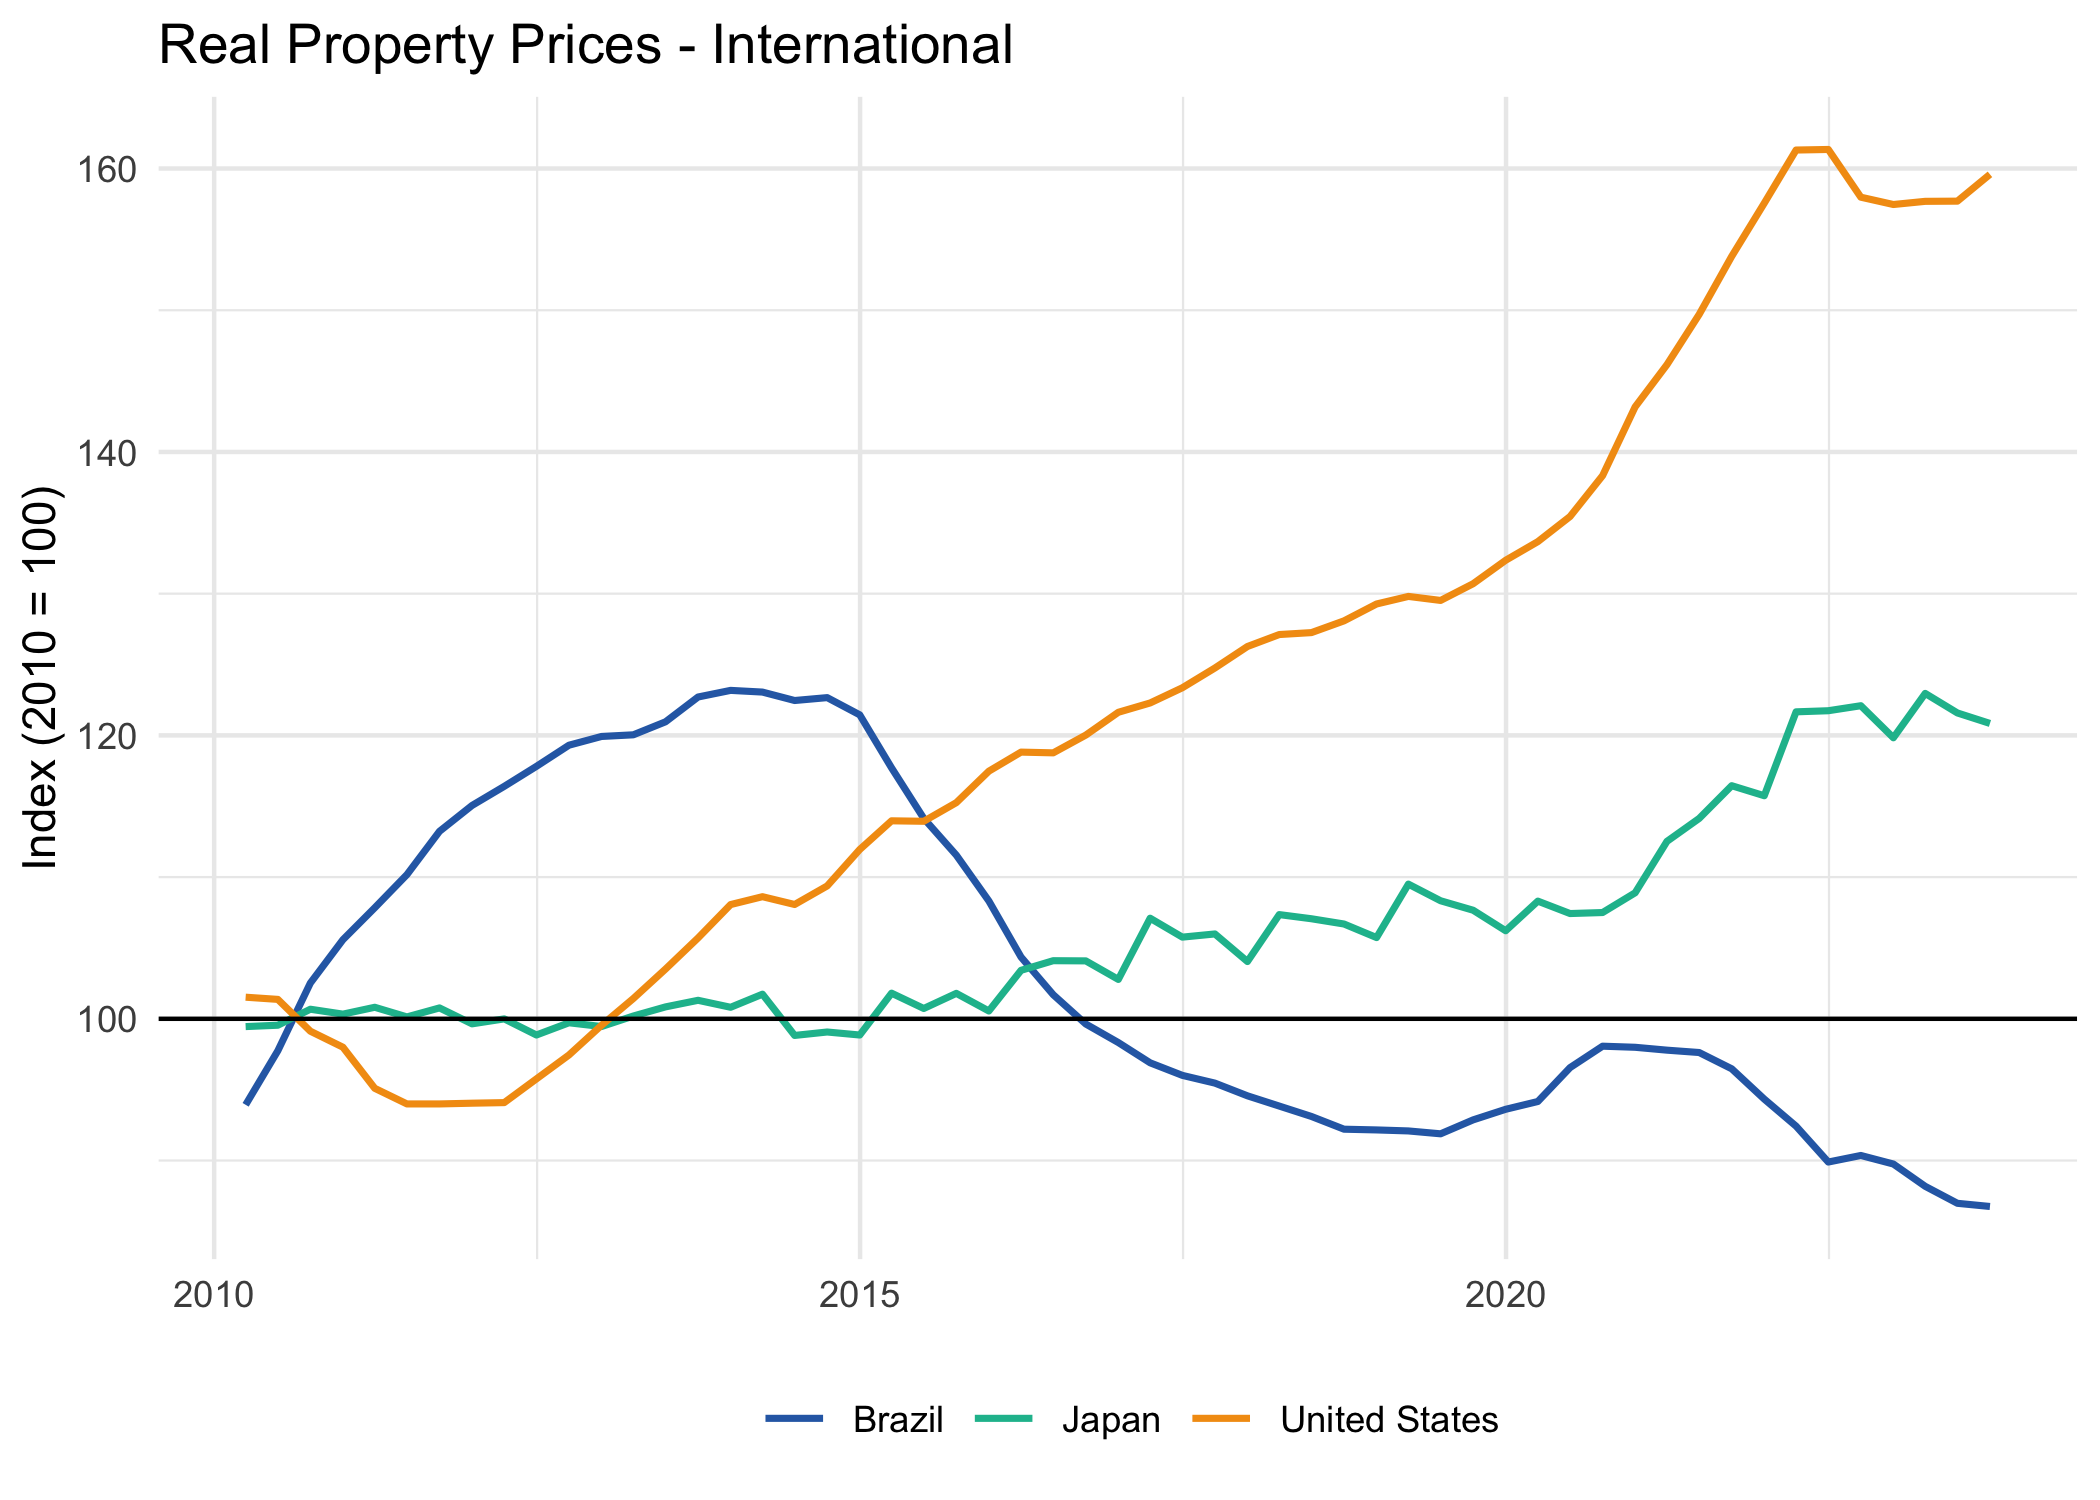
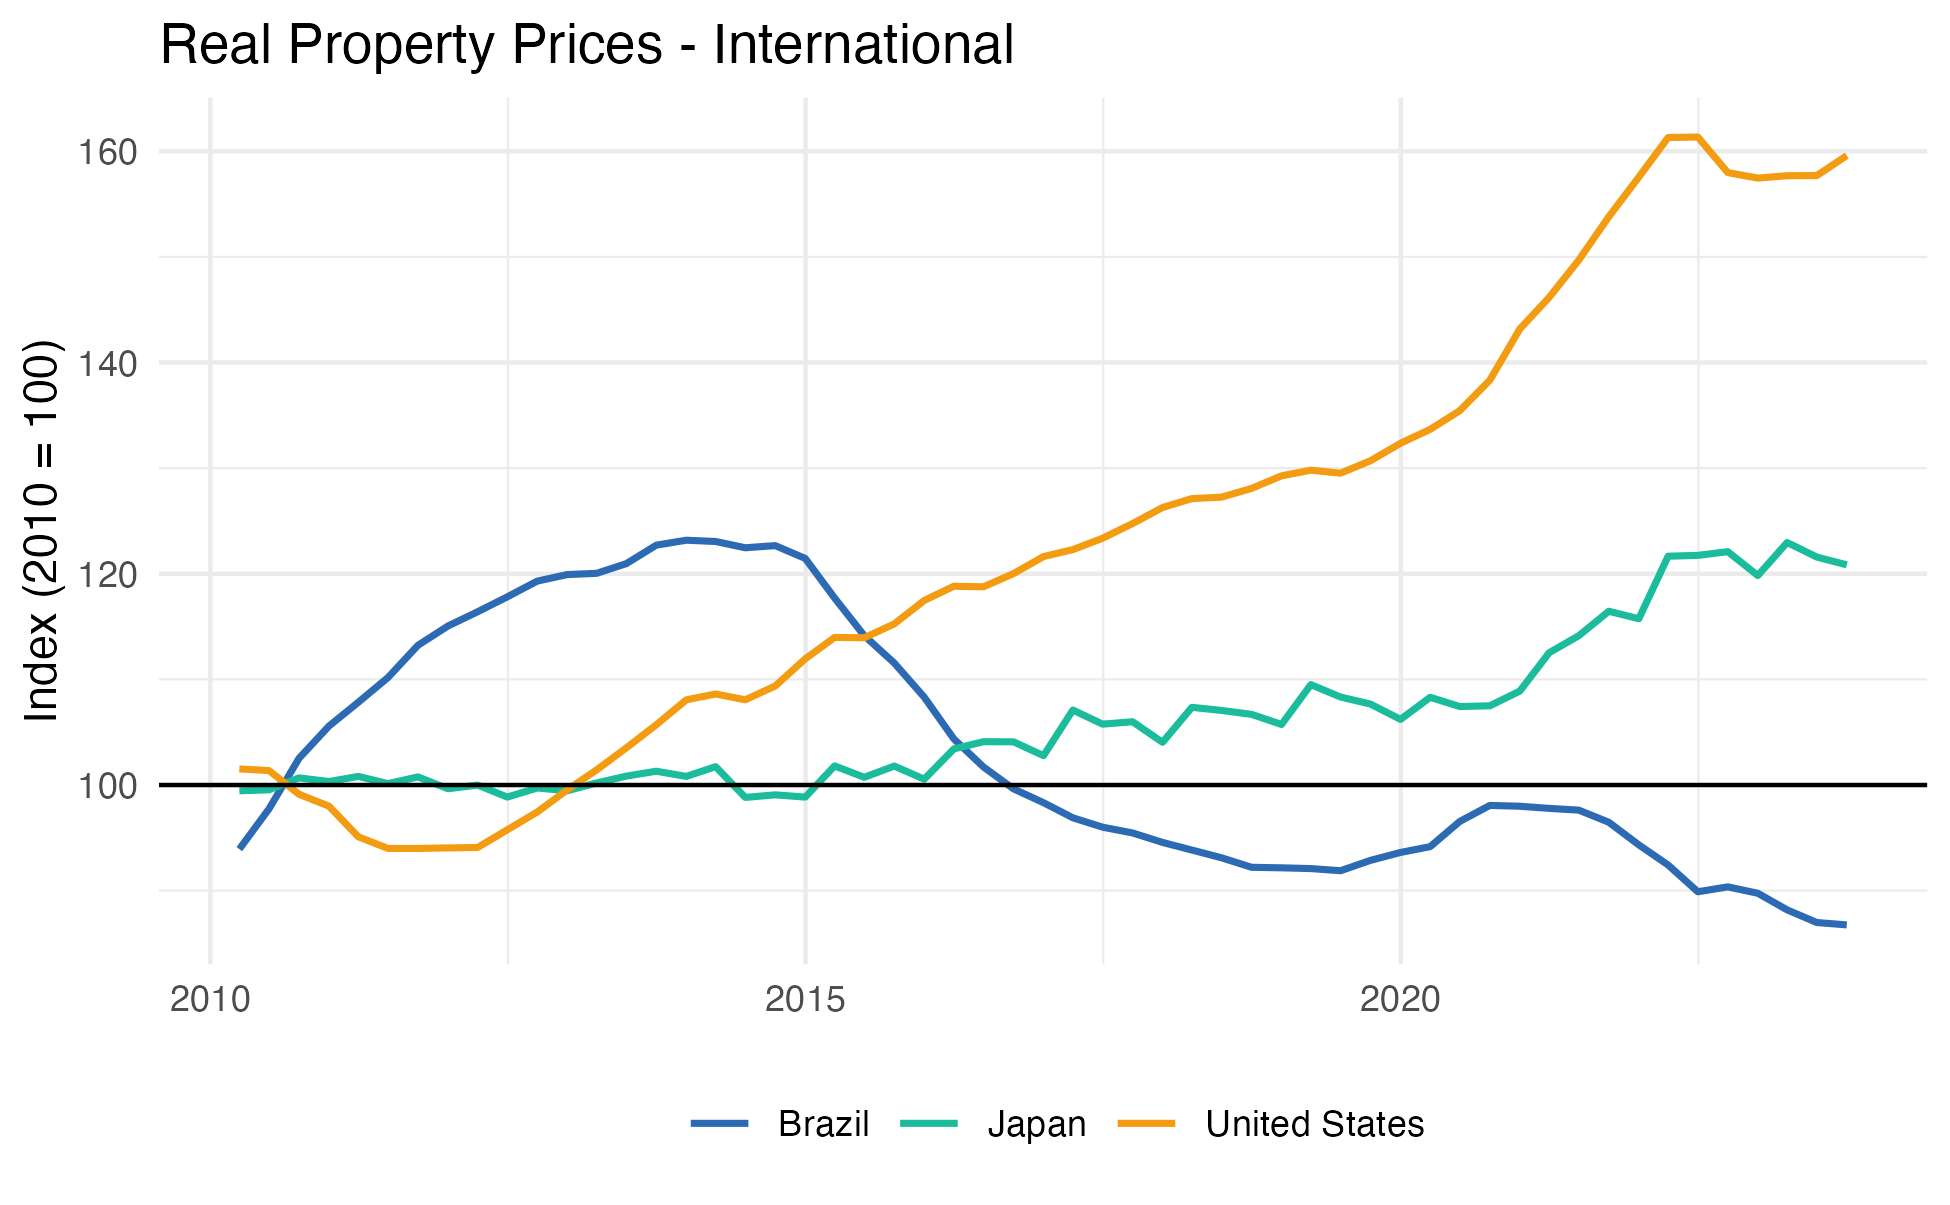
docs: improve README plots with ragg rendering and remove badge
- Remove R-CMD-check badge from README
- Add ragg_png device for higher quality plot rendering
- Set code chunks to eval=FALSE and use static plot images
- Regenerate README.md with cleaner output (no console messages)
- Add data-raw/readme_plots.R script for generating plots
- Update plot figures with improved rendering

🤖 Generated with [Claude Code](https://claude.com/claude-code)

diff --git a/README.md b/README.md
@@ -5,7 +5,6 @@
 
 <!-- badges: start -->
 
-[![R-CMD-check](https://github.com/viniciusoike/realestatebr/actions/workflows/R-CMD-check.yaml/badge.svg)](https://github.com/viniciusoike/realestatebr/actions/workflows/R-CMD-check.yaml)
 <!-- badges: end -->
 
 **realestatebr** aims to provide an unified interface to Brazilian real
@@ -118,10 +117,6 @@ library(dplyr, warn.conflicts = FALSE)
 
 # Get FipeZap index
 fipezap <- get_dataset("rppi", table = "fipezap")
-#> Checking user cache for rppi...
-#> Successfully loaded from user cache
-#> Retrieved 'fipezap' from 'rppi'. Available tables: 'fipezap', 'ivgr', 'igmi',
-#> 'iqa', 'iqaiw', 'ivar', 'secovi_sp', 'sale', 'rent', 'all'
 
 # Brazil national index
 rppi_spo <- fipezap |>
@@ -149,22 +144,15 @@ ggplot(rppi_spo, aes(x = date, y = value, color = rent_sale)) +
     legend.position = "bottom",
     palette.colour.discrete = c("#2C6BB3", "#1abc9c", "#f39c12")
   )
-#> Warning: Removed 1 row containing missing values or values outside the scale range
-#> (`geom_line()`).
 ```
 
-<img src="man/figures/README-rppi-example-1.png" width="100%" />
+<img src="man/figures/README-rppi-example-1.png" data-out.width="80%" />
 
 ## International Comparison
 
 ``` r
 # Get BIS international data
 bis <- get_dataset("rppi_bis")
-#> Checking user cache for rppi_bis...
-#> Successfully loaded from user cache
-#> Retrieved 'selected' from 'rppi_bis' (default table). Available tables:
-#> 'selected', 'detailed_monthly', 'detailed_quarterly', 'detailed_annual',
-#> 'detailed_semiannual'
 
 # Compare countries
 bis_compare <- bis |>
@@ -190,7 +178,7 @@ ggplot(bis_compare, aes(x = date, y = value, color = reference_area)) +
   )
 ```
 
-<img src="man/figures/README-bis-example-1.png" width="100%" />
+<img src="man/figures/README-bis-example-1.png" data-out.width="80%" />
 
 ## Learn More
 
